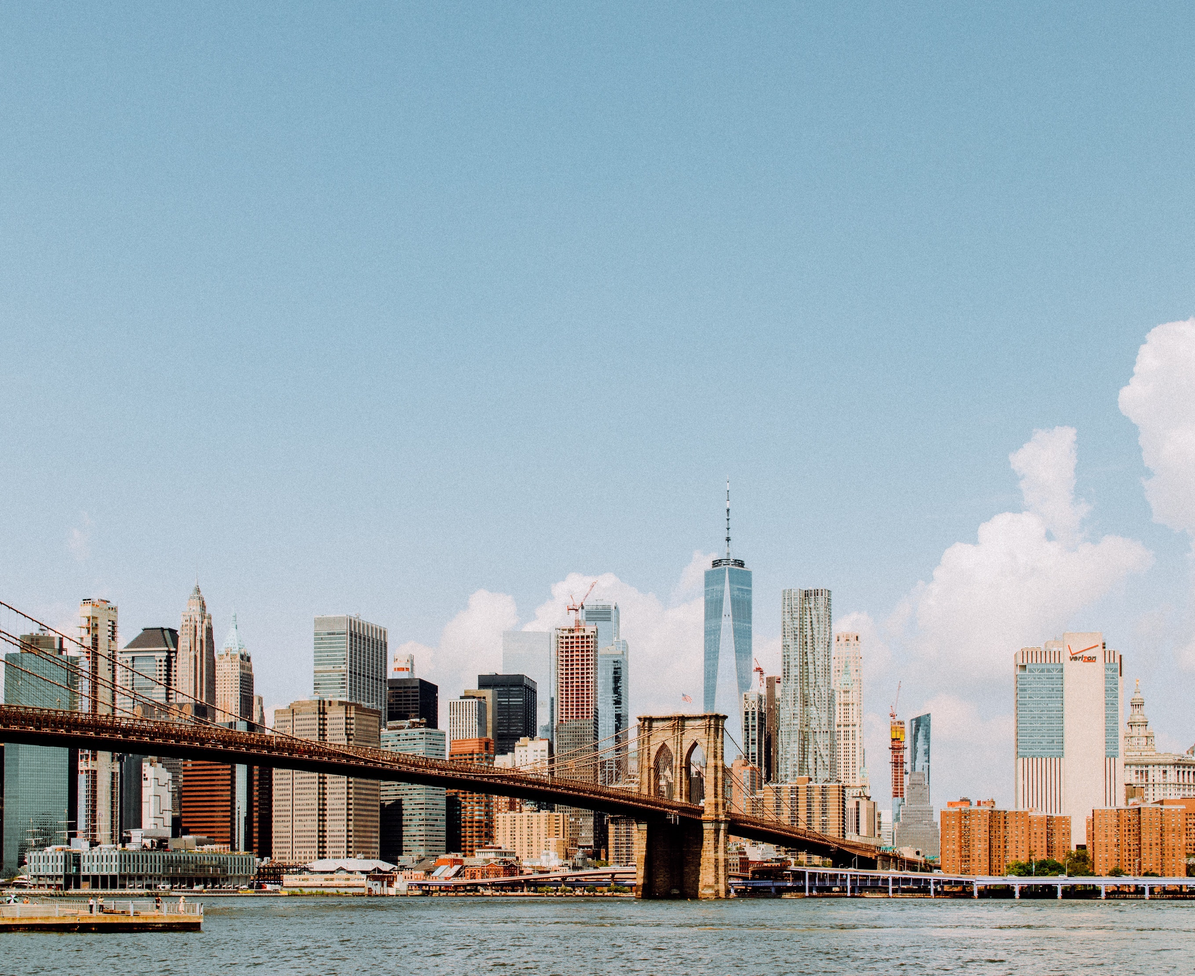
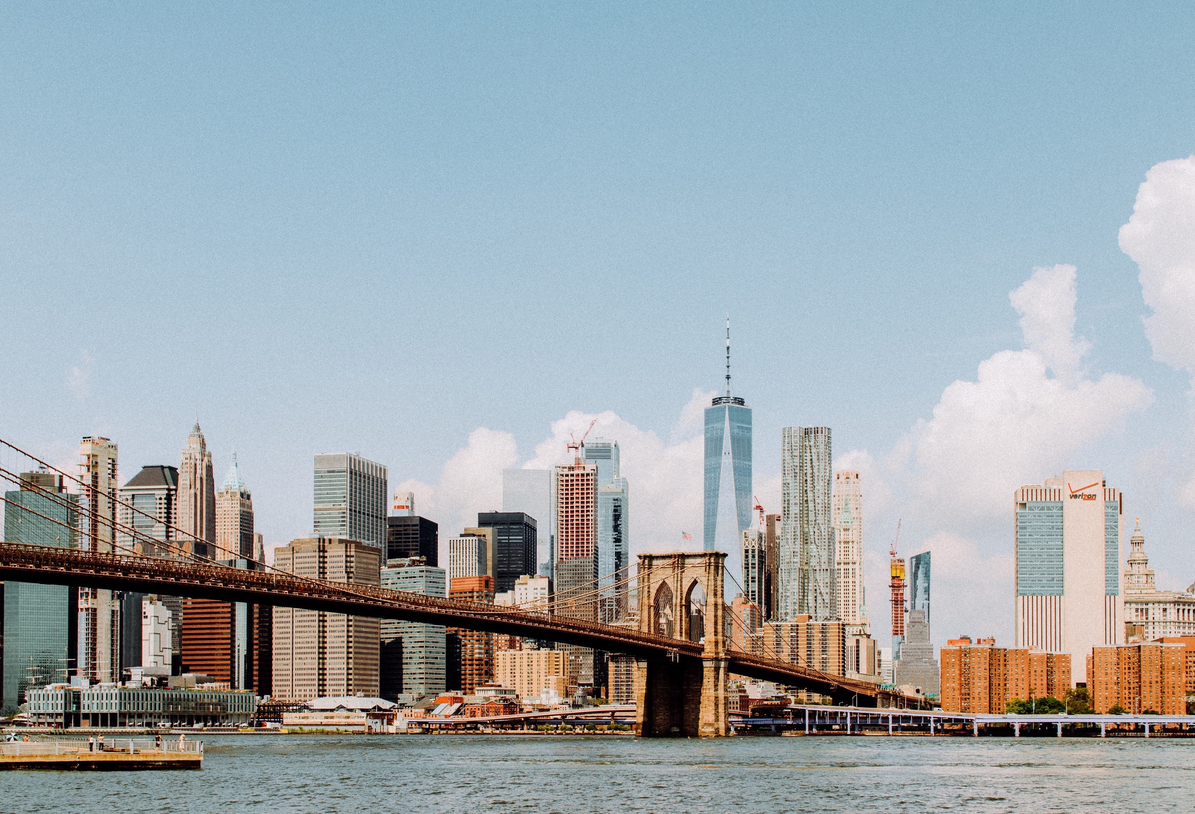
shadow on text box and new file for presentation

diff --git a/home.html b/home.html
@@ -28,10 +28,10 @@
   <!-- Header -->
   <header class="w3-display-container w3-content" style="max-width:1400px">
     <div class="w3-container">
-      <img class="w3-image" src="assets/img/city.jpg" alt="City" width="1500" height="600">
+      <img class="w3-image" src="assets/img/city.jpg" alt="City" width="1500" height="100">
       <div class="w3-display-middle" style="width:65%">
         <div class="w3-container">
-        <h2 id="w3-content" style="margin-bottom: 300px;">
+        <h2 id="w3-content">
           It isn't always easy finding a good half way point when you plan on meeting someone.  
           But with Middle Point you decide
           what <i> sort </i> of place you want to meet in. 
@@ -39,9 +39,10 @@
           Enter the address points below, choose the mood and we will generate the places for you.
         </h2>
         </div>
+        <br>
 
         <!-- Address Box -->
-        <div class="w3-card-4 w3-mobilex">
+        <div class="w3-card-4 w3-mobilex" id="addressBox" style=" border-radius: 30px; padding-bottom: 30px; box-shadow: 5px 5px 20px 20px rgb(83, 82, 82)">
           <!-- Title -->
           <header class="w3-container">
             <h1>Middle Point</h1>
@@ -49,12 +50,12 @@
           <div class="w3-row-padding">
             <!-- Address 1 -->
             <div class="w3-half">
-              <label>Address 1</label>
+              <label><strong>Address 1</strong</label>
               <input class="w3-input w3-border" type="text" placeholder="Address 1">
             </div>
             <!-- Address 2 -->
             <div class="w3-half">
-              <label>Address 2</label>
+              <label><strong>Address 2</strong></label>
               <input class="w3-input w3-border" type="text" placeholder="Address 2">
             </div>
           </div>
@@ -64,9 +65,11 @@
           <div class="w3-row-padding">
             <select class="w3-select" onchange="color(this.value)">
               <option selected value=#ECEFF1>Choose your Mood</option>
-              <option id="mood1" value=#85C1E9>Social</option>
+              <option id="mood1" value=#85C1E9>Entertainment</option>
               <option id="mood2" value=#F9E79F>Business</option>
-              <option id="mood3" value=#EC7063>Romantic</option>
+              <option id="mood3" value=#EC7063>Study Time</option>
+              <option id="mood4" value=#EC7063>Child Friendly</option>
+              <option id="mood5" value=#EC7063>Hungry</option>
             </select>
           </div>
         </div>
@@ -127,8 +130,16 @@
 </body>
 <script src="jquery-3.5.1.min.js"></script>
 <script>
+
   function color(value) {
     document.body.style.backgroundColor = value;
   }
+
+  // change the image on the mood dropline
+
+  
+
+
+
 </script>
 </html>

diff --git a/assets/style.css b/assets/style.css
@@ -12,19 +12,7 @@
 
 }
 
-.w3-card-4 {
-    position: absolute;
-    top: 50px;
-    bottom: 850px;
-    padding-right: 50px;
-    padding-left: 50px;
-    padding-bottom: 50px;
-    padding-top: 40px;
-    margin-left: 180px;
-    margin-right: 100px;
-    margin-top: 50px;
-    margin-bottom: 0px;
-    background-color: white;
-}
+
+
 
 

diff --git a/assets/script.js b/assets/script.js
@@ -167,3 +167,6 @@ function openLink(evt, linkName) {
 Click on the first tablink on load
 document.getElementsByClassName("tablink")[0].click();
 */
+
+
+
